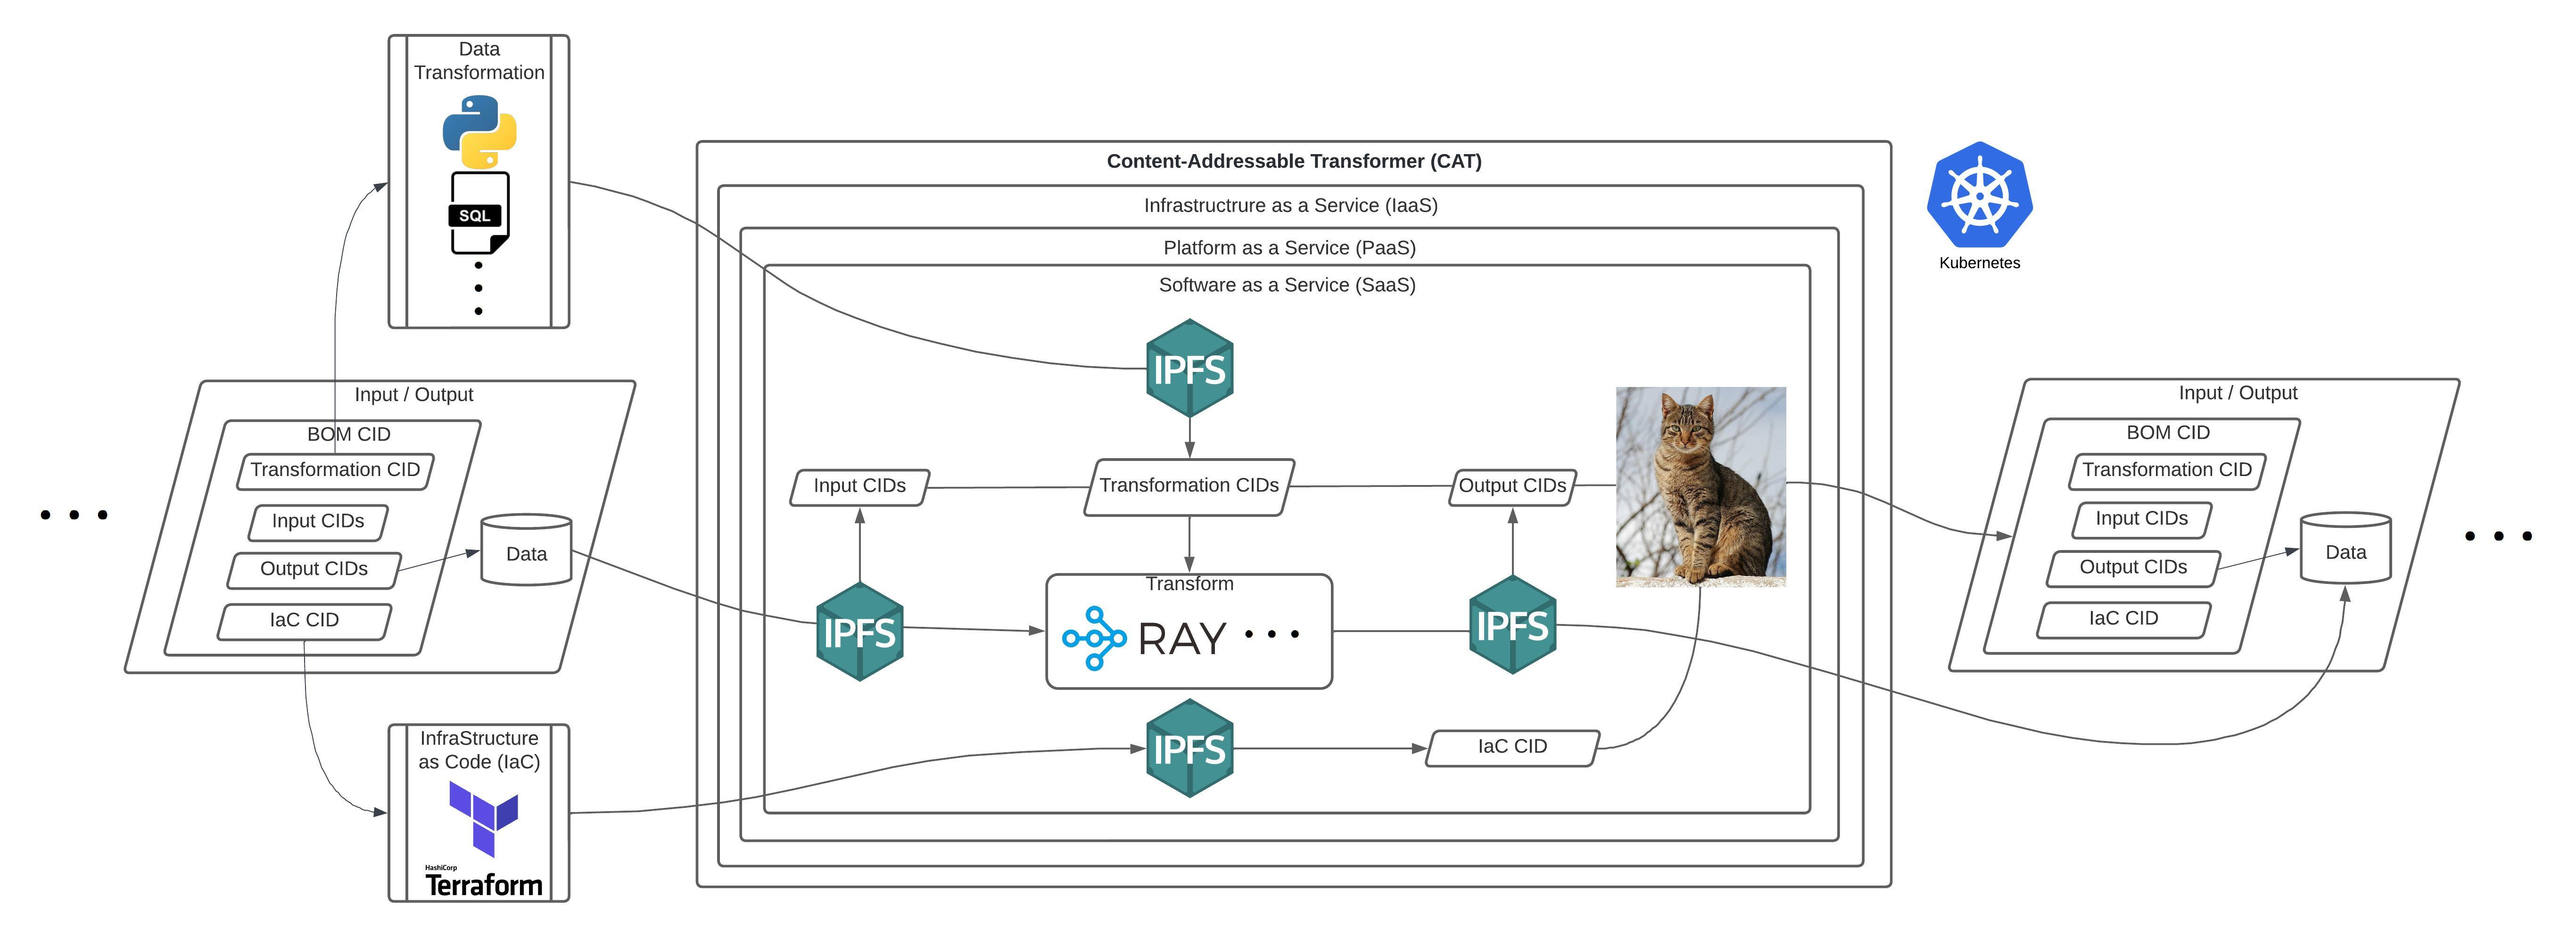
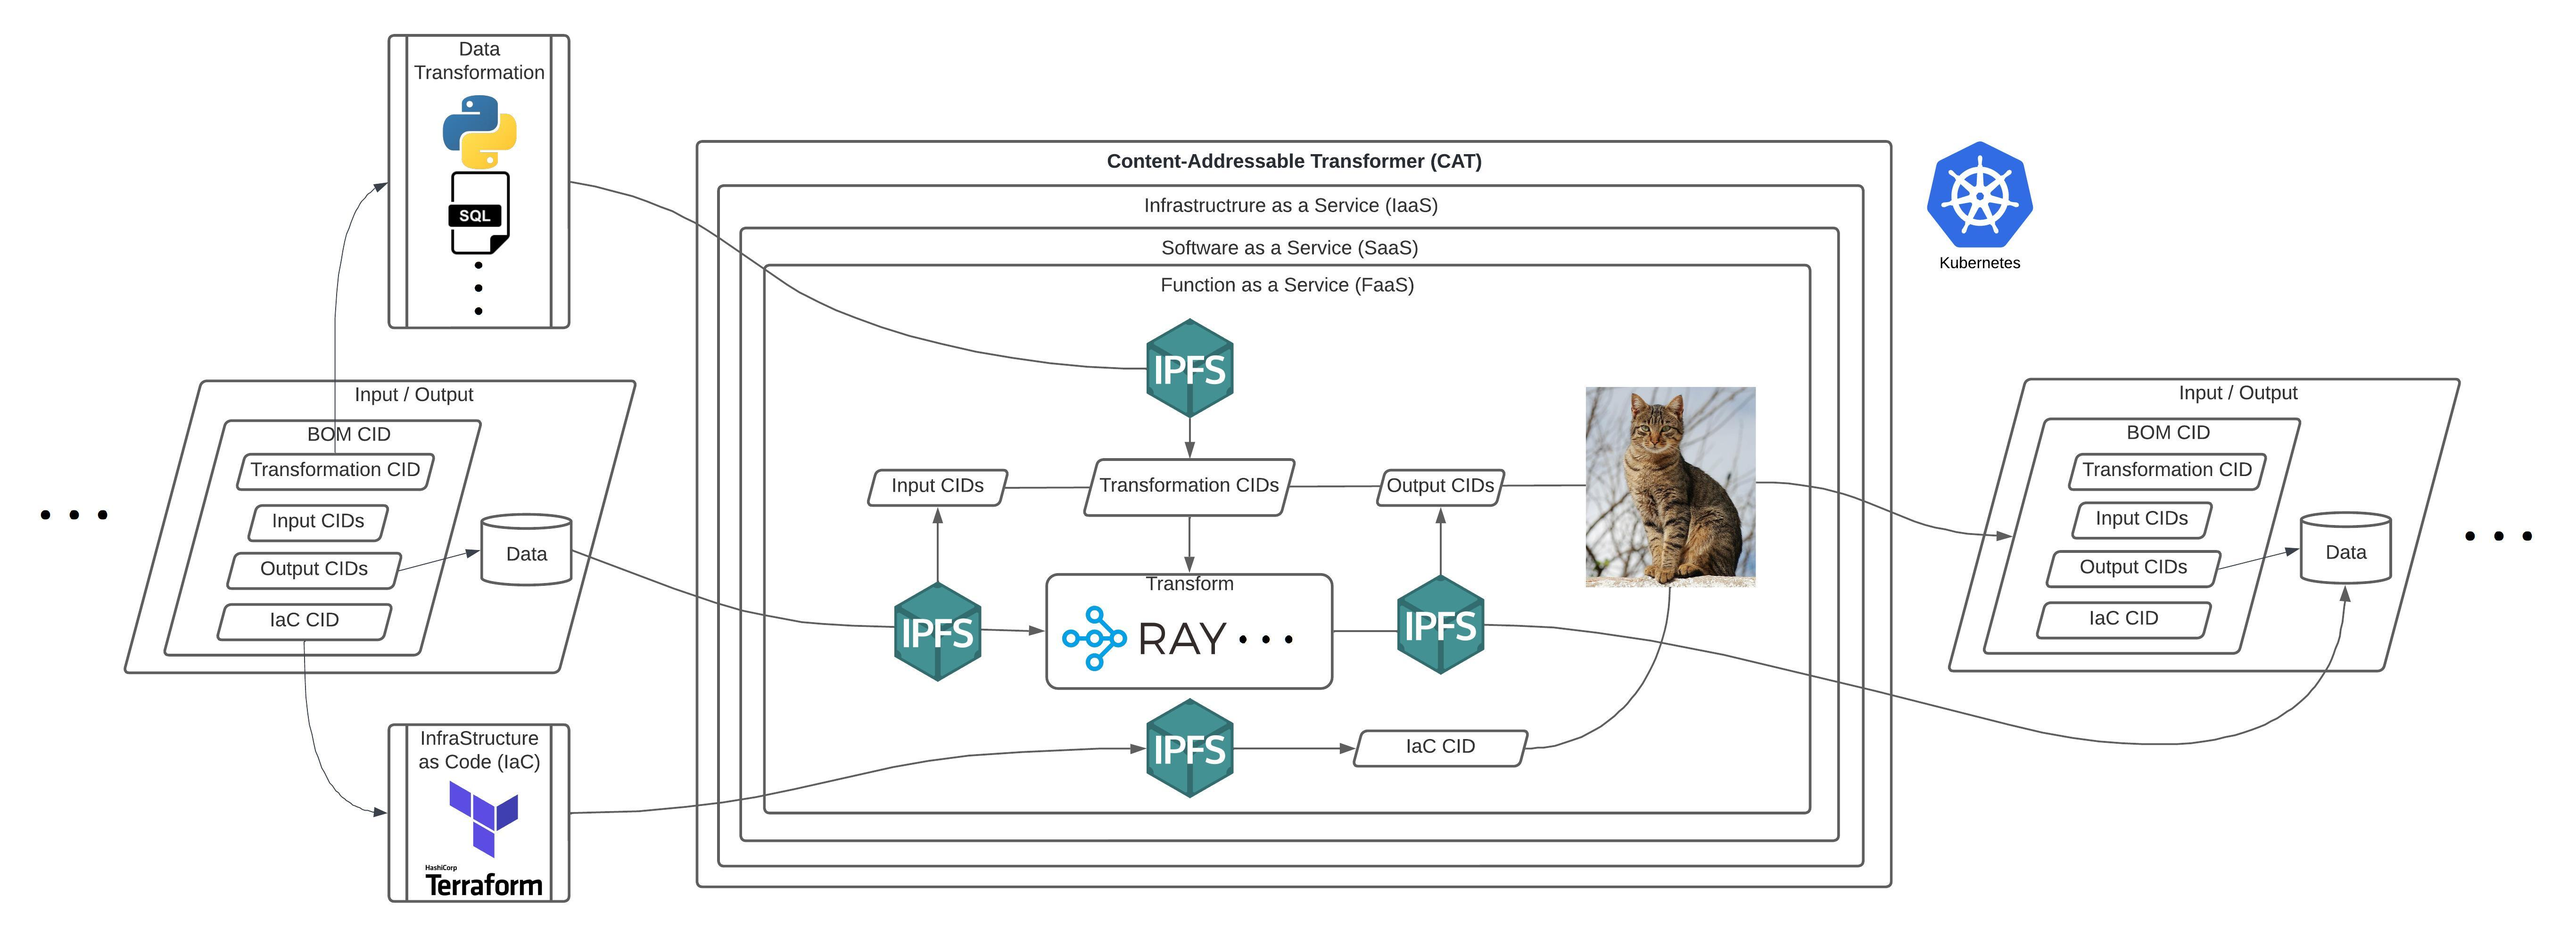
readme update

diff --git a/README.md b/README.md
@@ -2,17 +2,21 @@
 ![alt_text](images/CATs_chaordic_kernel.jpeg)
 
 ## Description:
-**Content-Addressable Transformers** (**CATs**) is a unified Data Service Collaboration framework for interoperable 
-parallelized and distributed computing at horizontal & vertical scale. CATs' establish a scalable and self-serviced Data 
-Platform as a Data Mesh network of scalable and interoperable distributed computing workloads with Data Provenance. CATs 
-are integration points for workload portability between client-server cloud platforms and p2p mesh networks with minimal 
-rework or modification.
+**Content-Addressable Transformers** (**CATs**) is a unified Data Service Collaboration framework for organizations. 
+CATs connect collaborators between organizations on a Data Mesh with interoperable parallelized and distributed 
+computing at horizontal & vertical scale. CATs' establish a scalable and self-serviced Data Platform as a Data Mesh 
+network of scalable and interoperable distributed computing workloads with Data Provenance deployable on Kubernetes. 
+These workloads [CAT(s)] enable for Big Data processing with Scientific Computing capabilities. CATs are integration 
+points which enable scaled data processing portability between client-server cloud platforms and mesh (p2p) networks 
+with minimal rework or modification. 
 
 CATs enables the 
 [continuous reification of **Data Initiatives**](https://github.com/BlockScience/cats?tab=readme-ov-file#continuous-data-initiative-reification) 
-by providing an interface for [**Data Service Collaboration**](https://github.com/BlockScience/cats?tab=readme-ov-file#continuous-data-initiative-reification) 
-between organizations. This interface provides a reliable and efficient way to manage, share, and reference data processes 
-via [**Content-Addressing**](https://en.wikipedia.org/wiki/Content-addressable_storage) Data Provenance records.
+by cataloging discoverable, accessable, and re-executable workloads as 
+ [**Data Service Collaboration**](https://github.com/BlockScience/cats?tab=readme-ov-file#continuous-data-initiative-reification) 
+composable records between organizations. These records provide a reliable and efficient way to manage, share, and 
+reference data processes via [**Content-Addressing**](https://en.wikipedia.org/wiki/Content-addressable_storage) Data 
+Provenance records.
 
 **Content-Addressing** is a method of uniquely identifying and retrieving data based on its content rather than its 
 location or address. CATs provides verifiable data processing and transport on a Mesh network of CATs interconnected by 
@@ -21,23 +25,22 @@ Content-Addressing Data Provenance records with [IPFS](https://ipfs.io/)
 **[client](https://docs.ipfs.io/install/command-line/#official-distributions)** to identify and retrieve inputs, 
 transformations, outputs, and infrastructure (as code [IaC]) for verifying transformation accuracy given CIDs.
 ![alt_text](images/cid_example.jpeg)
+![alt_text](images/simple_CAT2.jpeg)
 
 ### Specification:
-CATs' utilizes [Ray](https://www.ray.io/) for interoperable & parallelized distributed computing 
-frameworks deployable on **[Kubernetes](https://kubernetes.io/)** for Big Data processing with Scientific Computing.
-Ray is a unified compute framework that enables the development of parallel and 
-distributed applications for scalable data transformation, Machine Learning, and AI.
-Ray provides CATs with interoperable computing frameworks with its 
+CATs' utilizes [Ray](https://www.ray.io/) for interoperable & parallelized distributed computing frameworks deployable 
+on **[Kubernetes](https://kubernetes.io/)** for Big Data processing with Scientific Computing. Ray is a unified compute 
+framework that enables the development of parallel and distributed applications for scalable data transformation, 
+Machine Learning, and AI. Ray provides CATs with interoperable computing frameworks with its 
 [ecosystem integrations](https://docs.ray.io/en/latest/ray-overview/ray-libraries.html) such as 
-[Apache Spark](https://spark.apache.org/) & [PyTorch](https://pytorch.org/).
+[Apache Spark](https://spark.apache.org/), and [PyTorch](https://pytorch.org/).
 
-Ray is deployed as an execution middleware on top of [Bacalhau’s](https://www.bacalhau.org/) 
-[Compute Over Data (CoD)](https://github.com/bacalhau-project/bacalhau). CoD enables IPFS to serve as CATs' Data Mesh's 
-network layer to provide parallelized data ingress and egress for IPFS data. This portability closes the gap between 
-data analysis and business operations by connecting the network planes of the cloud service model (SaaS, PaaS, IaaS) 
-with IPFS. Connecting these network planes enables the execution of the cloud services in AWS, GCP, Azure, etc. on a 
-**Data Mesh** network of CATs. CoD enables this connection as p2p distributed-computing job submission in addition to 
-the client-server job submission provided by Ray.
+Ray is deployed as an execution middleware on top of [Bacalhau’s](https://www.bacalhau.org/) [Compute Over Data (CoD)](https://github.com/bacalhau-project/bacalhau). 
+CoD enables IPFS to serve as CATs' Data Mesh's network layer to provide parallelized data ingress and egress for IPFS 
+data. This portability closes the gap between data analysis and business operations by connecting the network planes of 
+the cloud service model (SaaS, PaaS, IaaS) with IPFS. CATs connect these network planes by enabling the instantiation of 
+FaaS with cloud services in AWS, GCP, Azure, etc. on a **Data Mesh** network of CATs. CoD enables this connection as p2p 
+distributed-computing job submission in addition to the client-server job submission provided by Ray.
 
 ### Get Started!:
 0. **Install [Platform Dependencies](./docs/DEPS.md)**
@@ -74,7 +77,8 @@ transport on a Mesh network of CATs. BOMs are used as CAT’ input & output that
 [Data Verification](https://en.wikipedia.org/wiki/Data_verification). BOM CIDs can be used to verify the means of processing 
 data (input, transformation / process, output, infrastructure-as-code (IaC)) they can also make CATs resilient by 
 enabling re-execution via retrieval. CATs certifies the accuracy of data processing on data products and pipelines by 
-enabling maintenance & reporting of [data and process lineage & provenance](https://bi-insider.com/posts/data-lineage-and-data-provenance/) as chains of 
+enabling maintenance and reporting of 
+[data and process lineage & provenance](https://bi-insider.com/posts/data-lineage-and-data-provenance/) as chains of 
 evidence using CIDs.
 ![alt_text](images/CATs_bom_activity.jpeg)
 * CAT Mesh is composed by CATs executing BOMs.
@@ -89,7 +93,7 @@ Workloads (CATs) executed by CAT Nodes interface cloud service model (SaaS, PaaS
 AWS, GCP, Azure, etc. on a Mesh Network interconnected by IPFS. 
 
 CAT Nodes are **Data Products** - peer-nodes on a mesh network that encapsulate components (*) to function as a service 
-providing access to a domain's analytical data as a product; * code, data & metadata, and infrastructure
+providing access to a domain's analytical data as a product; * code, data & metadata, and infrastructure.
 
 **In the following image:** 
 * Large ovals in the image above represent **Data Products** servicing each other with Data
